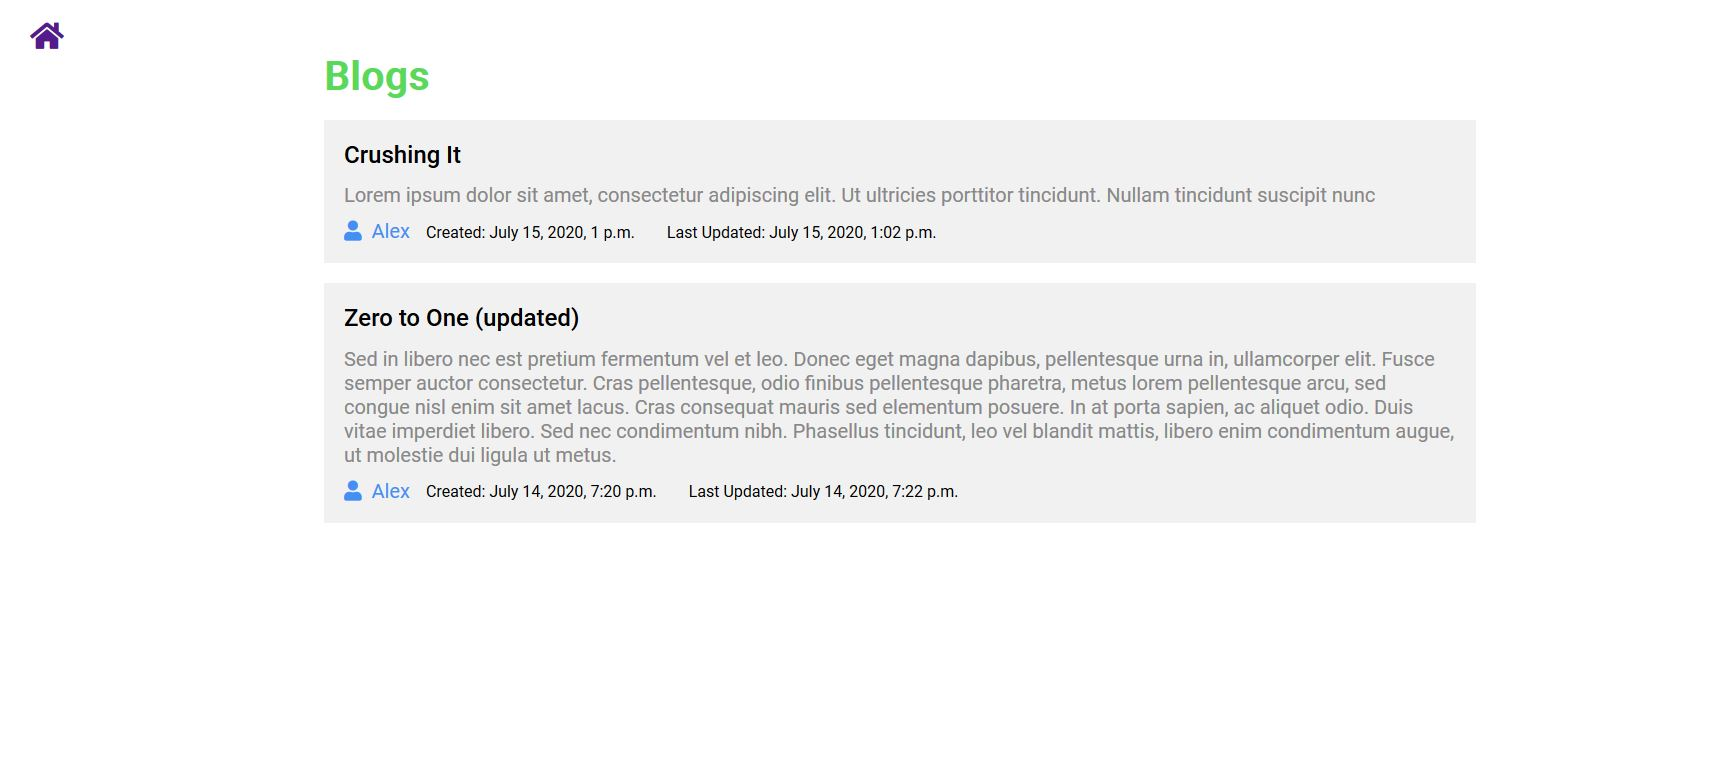
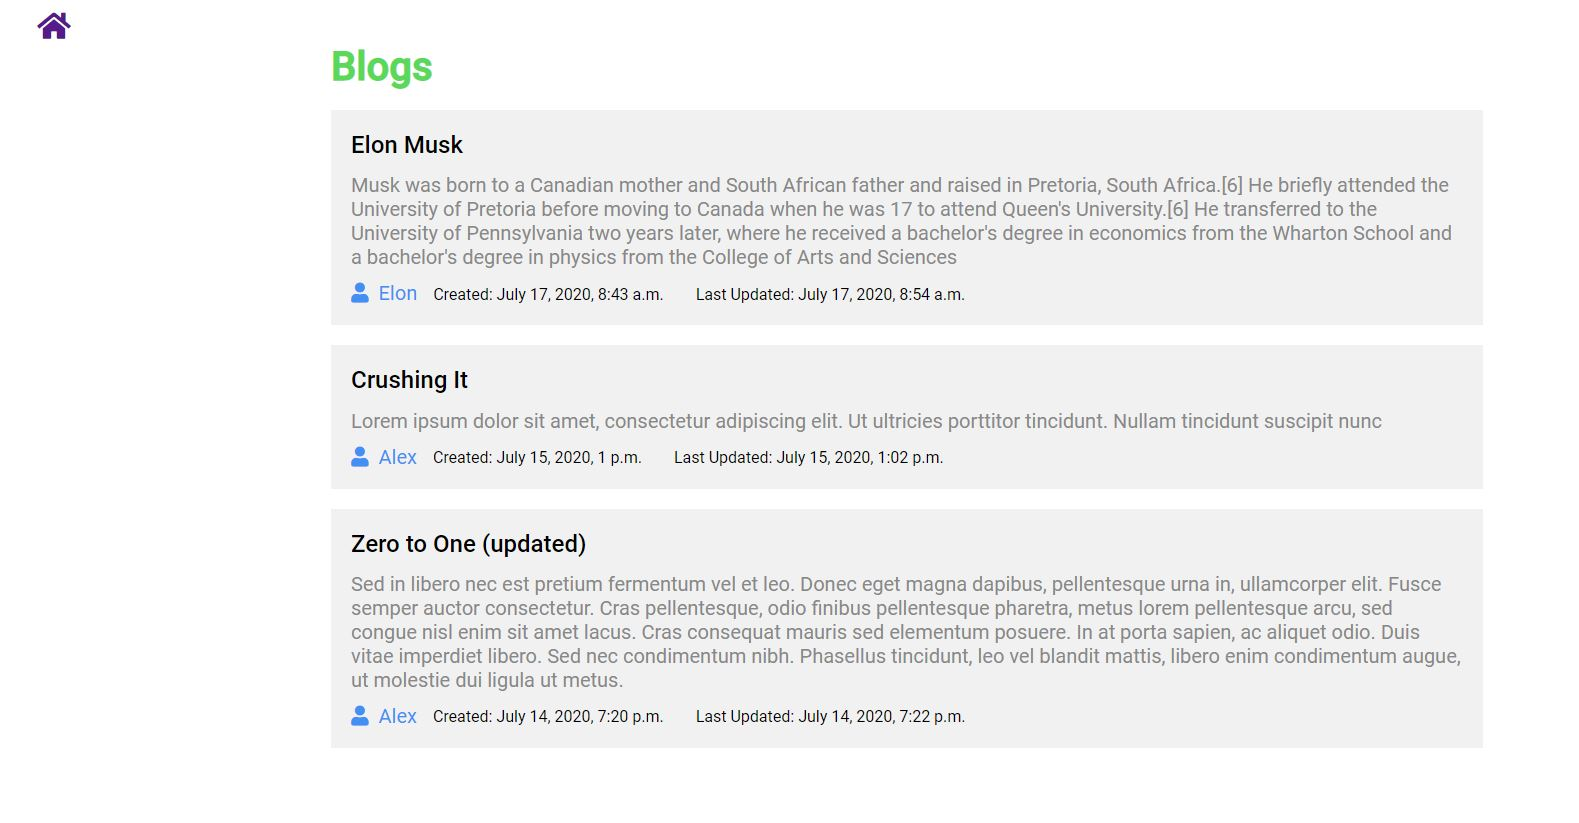
Version 1

diff --git a/blog/templates/blog/user_blog.html b/blog/templates/blog/user_blog.html
@@ -5,8 +5,8 @@
     <i class="fas fa-home"></i>
 </a>
     <div class="container">
-        <h1>Blogs</h1>
-        {% for blog in blogs %}
+        <h1>{{ user_name }}</h1>
+        {% for blog in user_blog %}
         <div class="card">
             <div class="card-title">
                 {{ blog.title }}
@@ -15,8 +15,8 @@
                 {{ blog.body }}
             </div>
             <div class="card-footer">
-                <a href="{% url 'blog:user_blog' blog.user_id %}">
-                <i class="fas fa-user" style="margin-right: .5em;"></i>{{ blog.user.name}} </a>
+
+                <i class="fas fa-user" style="margin-right: .5em;"></i>{{ blog.user.name}}
 
                 <span>Created: {{ blog.created_at }}</span>
                 <span>Last Updated: {{blog.updated_at}}</span>

diff --git a/django_root/settings.py b/django_root/settings.py
@@ -11,6 +11,10 @@ https://docs.djangoproject.com/en/3.0/ref/settings/
 """
 
 import os
+import dotenv
+
+dotenv.load_dotenv()
+
 
 # Build paths inside the project like this: os.path.join(BASE_DIR, ...)
 BASE_DIR = os.path.dirname(os.path.dirname(os.path.abspath(__file__)))
@@ -20,7 +24,7 @@ BASE_DIR = os.path.dirname(os.path.dirname(os.path.abspath(__file__)))
 # See https://docs.djangoproject.com/en/3.0/howto/deployment/checklist/
 
 # SECURITY WARNING: keep the secret key used in production secret!
-SECRET_KEY = 'op+xag9#j#*yxee1n*)tu=v7$)o0)y#5j^d=moai)5le1sumx+'
+SECRET_KEY = os.environ['SECRET_ROOT_KEY']
 
 # SECURITY WARNING: don't run with debug turned on in production!
 DEBUG = True

diff --git a/blog/views.py b/blog/views.py
@@ -1,6 +1,6 @@
 from django.shortcuts import render
 
-from .models import Blog
+from .models import Blog, User
 
 
 # index_view
@@ -14,3 +14,14 @@ def blog_view(request):
 
     context = {'blogs': blogs}
     return render(request, 'blog/blogs.html', context=context)
+
+
+def user_blog(request, pk):
+    user_blog = Blog.objects.filter(user_id=pk)
+    user_name = User.objects.filter(id=pk).first()
+
+    context = {
+        'user_blog': user_blog,
+        'user_name': user_name
+    }
+    return render(request, 'blog/user_blog.html', context)

diff --git a/blog/urls.py b/blog/urls.py
@@ -1,10 +1,11 @@
 from django.urls import path
 
-from .views import index_view, blog_view
+from .views import index_view, blog_view, user_blog
 
 app_name = 'blog'
 
 urlpatterns = [
     path('', index_view, name='index'),
-    path('blogs/', blog_view, name='blogs')
+    path('blogs/', blog_view, name='blogs'),
+    path('user/<int:pk>/', user_blog, name='user_blog')
 ]

diff --git a/readme.md b/readme.md
@@ -5,3 +5,8 @@
 <h1>Blog Page</h1>
 
 ![](readme_img/blogs.jpg)
+
+<h1>All Post By Specific User</h1>
+
+![](readme_img/specific.jpg)
+
